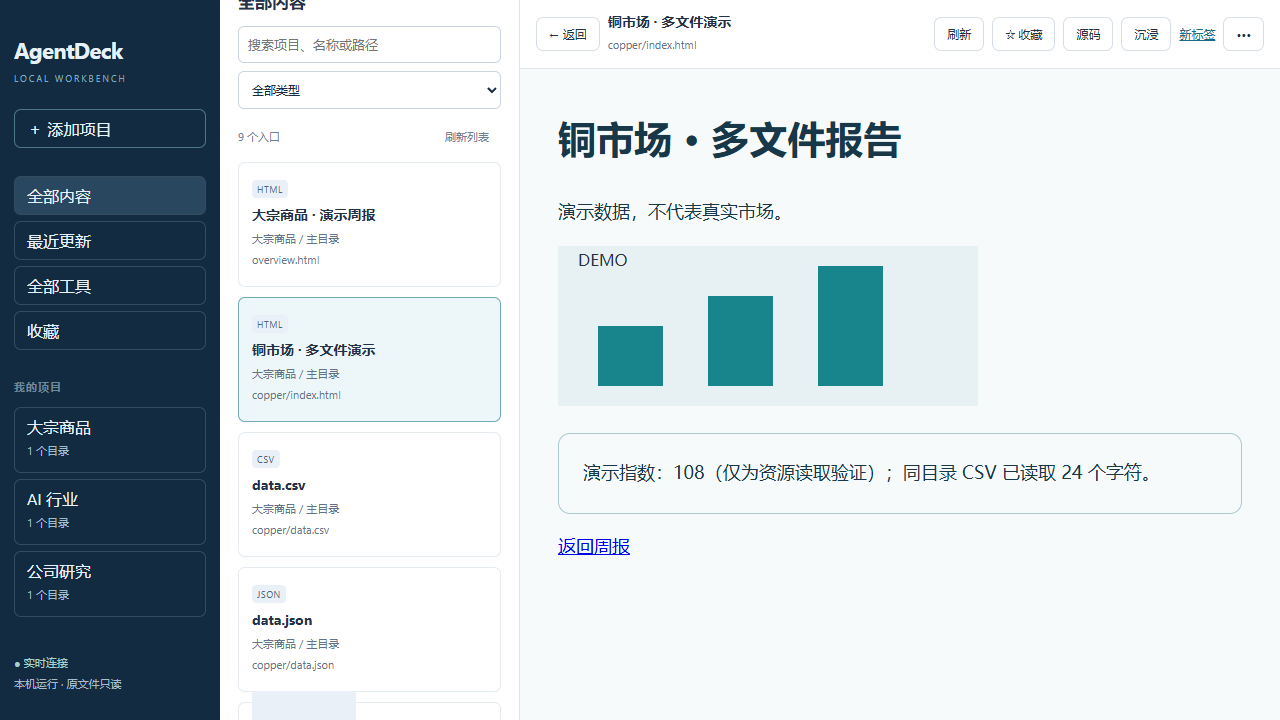
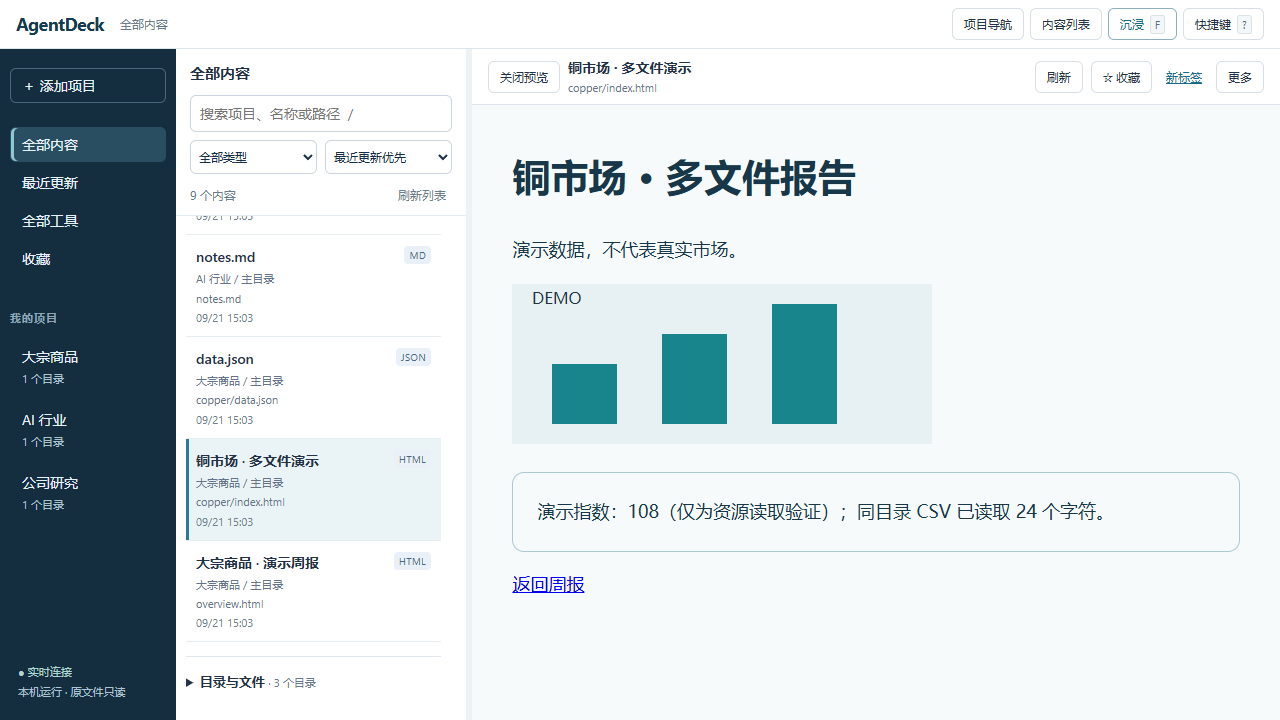
fix: 隔离内容类型标签与正文样式

diff --git a/app/web/style.css b/app/web/style.css
@@ -24,7 +24,7 @@ aside nav{margin:18px 0 10px}.nav-label{font-size:11px;letter-spacing:1px;font-w
 .catalog-scroll{min-height:0;overflow:auto;overscroll-behavior:contain;scrollbar-gutter:stable;flex:1;padding:0 10px 14px}
 .entry{display:block;text-align:left;width:100%;padding:11px 10px;border:0;border-bottom:1px solid #e6edf1;border-radius:0;background:transparent}
 .entry:hover{background:#f3f7f9}.entry.selected{background:#eaf3f5;box-shadow:inset 3px 0 #297c92}.entry-heading{display:flex;gap:8px;align-items:flex-start;justify-content:space-between}.entry strong{font-size:14px;font-weight:600;line-height:1.5;overflow-wrap:anywhere;min-width:0}.entry small{font-size:11px;line-height:1.4;margin:4px 0}.entry-path{white-space:nowrap;overflow:hidden;text-overflow:ellipsis}.entry-meta{display:flex;align-items:center;justify-content:space-between;gap:6px;color:#6e7f8d;font-size:11px}.entry-status{color:#97541d}
-.badge{flex:none;font-size:10px;letter-spacing:.3px;padding:2px 5px;background:#eaf0f8;border-radius:4px;color:#426883}.badge.tool{background:#e5f4ed;color:#307960}
+.badge{flex:none;font-size:10px;letter-spacing:.3px;padding:2px 5px;background:#eaf0f8;border-radius:4px;color:#426883}.badge.kind-tool{background:#e5f4ed;color:#307960}
 .catalog-empty{padding:24px 12px;color:#627789;font-size:13px}.catalog-empty strong{color:#324b60}.catalog-empty p{margin:8px 0 14px}
 .directory-section{margin-top:14px;border-top:1px solid #e0e7ee;padding:8px 0}.directory-section>summary{font-weight:600}.directory-section>summary span{font-weight:400;font-size:11px}.mount-tree{margin:4px 4px 4px 8px}.mount-tree button,.output-note{font-size:12px}
 summary{cursor:pointer;font-size:13px;padding:8px 0;overflow-wrap:anywhere}.tree{padding:8px 0 8px 12px}.tree button{display:block;border:0;text-align:left;font-size:12px;overflow-wrap:anywhere}.offline{color:#ab493d}.output-note{margin-top:14px}

diff --git a/tests/e2e/workbench.spec.ts b/tests/e2e/workbench.spec.ts
@@ -19,8 +19,11 @@ test('production: add real projects and run native and built tools',async({page}
   await page.locator('.entry').filter({hasText:'单位换算器'}).click();frame=page.frameLocator('iframe');await frame.locator('#tonnes').fill('3.4');await frame.getByRole('button',{name:'换算',exact:true}).click();await expect(frame.locator('#result')).toHaveText('3400 千克');
   await page.locator('.entry').filter({hasText:'铜市场 · 多文件演示'}).click();frame=page.frameLocator('iframe');await expect(frame.locator('#data')).toContainText('108');await expect(frame.locator('#data')).toContainText('CSV 已读取');await expect(frame.locator('img')).toBeVisible();
   expect((await json(page,'/api/projects')).data.projects).toHaveLength(3);
+  const markdownBadge=page.locator('.entry').filter({hasText:'notes.md'}).locator('.badge');
+  expect(await markdownBadge.evaluate(el=>el.getBoundingClientRect().height)).toBeLessThan(28);
   await page.screenshot({path:'test-results/workbench.png',fullPage:true});
   await page.setViewportSize({width:1080,height:1920});
+  expect(await markdownBadge.evaluate(el=>el.getBoundingClientRect().height)).toBeLessThan(28);
   await expect(frame.locator('#data')).toContainText('CSV 已读取');
   await page.screenshot({path:'test-results/workbench-portrait.png',fullPage:true});
   await page.getByRole('button',{name:'沉浸',exact:true}).click();

diff --git a/app/web/App.tsx b/app/web/App.tsx
@@ -171,7 +171,7 @@ export function App() {
           if (index < 0) return;
           e.preventDefault(); rows[Math.max(0, Math.min(rows.length - 1, index + (e.key === 'ArrowDown' ? 1 : -1)))]?.focus();
         }}>{visible.map(e => <button className={`entry ${selected === e.id ? 'selected' : ''}`} aria-current={selected === e.id ? 'true' : undefined} key={e.id} onClick={() => openEntry(e.id)} title={`${e.title}\n${e.relativePath || e.toolRoot || '根目录'}`}>
-          <span className="entry-heading"><strong>{e.title}</strong><span className={`badge ${e.kind}`}>{e.kind === 'tool' ? '工具' : e.format.toUpperCase() || 'HTML'}</span></span>
+          <span className="entry-heading"><strong>{e.title}</strong><span className={`badge kind-${e.kind}`}>{e.kind === 'tool' ? '工具' : e.format.toUpperCase() || 'HTML'}</span></span>
           <small>{data.projects.find(p => p.id === e.projectId)?.name} / {data.mounts.find(m => m.id === e.mountId)?.label}{favorites.includes(e.id) ? ' ★' : ''}</small>
           <small className="entry-path">{e.relativePath || e.toolRoot || '根目录'}</small>
           <span className="entry-meta"><time dateTime={new Date(e.updatedAt).toISOString()} title={new Date(e.updatedAt).toLocaleString('zh-CN')}>{dateFormat.format(e.updatedAt)}</time>{e.status !== 'ready' && <span className="entry-status">{labels[e.status]}</span>}</span>

diff --git a/docs/ISSUES.md b/docs/ISSUES.md
@@ -91,3 +91,13 @@
 - 解决方案：共享契约增加不含默认值的独立 PATCH schema，只合并请求明确提交的字段。
 - 验证：重新定位前后工具 ID、入口覆盖、用途和显示名保持；停用/恢复、进程重新初始化和待构建状态测试通过。
 - 相关文件：app/shared/model.ts、app/server/server.ts、tests/discovery.test.ts。
+
+## AD-010 — Markdown 类型标签误用正文样式
+
+- 日期：2026-09-21
+- 状态：已解决
+- 现象：桌面界面截图中，Markdown 内容的类型标签异常放大，挤压标题并增加列表行高。
+- 原因：类型标签直接使用入口类别作为 CSS 类名，`markdown` 与阅读区的 `.markdown` 正文选择器重名，继承了正文内边距与布局规则。
+- 解决方案：类型标签使用 `kind-` 前缀隔离类别样式，正文排版规则保持独立。
+- 验证：Edge 正式模式检查横屏和竖屏中 Markdown 标签高度小于 28px，并检查实际示例报告截图；Markdown 阅读和快捷键回归通过。
+- 相关文件：app/web/App.tsx、app/web/style.css、tests/e2e/workbench.spec.ts。

diff --git a/docs/TEST-RESULTS.md b/docs/TEST-RESULTS.md
@@ -74,6 +74,7 @@
 - 验证列表宽度、折叠状态、排序记忆；沉浸临时搜索与取消恢复；方向键不切换工具，Enter 才打开；F/Esc 切换、逐层关闭弹窗、嵌套目录选择器、Tab 焦点循环及关闭后焦点恢复；单键禁用记忆；Markdown 滚动位置和独立预览退出。
 - 验证 iframe 中输入 `f/?` 不触发外层快捷键；Ctrl+K/L/J/F、Alt、Meta 和 F11 的合成事件不被工作台取消。IME 使用 isComposing/keyCode 229 合成事件验证；未声称实测所有物理输入法、浏览器扩展或操作系统热键。
 - 测试自身调整：DELETE 请求提供空 JSON 对象；滚动测试页面增高到 5000px，避免大竖屏下文档末尾的浏览器正常滚动限幅影响断言。
+- 截图检查发现并修复 AD-010：Markdown 类型标签与正文样式重名。增加标签高度断言后，工作流与快捷键 9 项回归全部通过。当前截图：[横屏](screenshots/workbench.png)、[竖屏](screenshots/workbench-portrait.png)、[竖屏沉浸](screenshots/workbench-immersive.png)。
 
 ## 未实现（延续 V1 范围）
 

diff --git a/README.md b/README.md
@@ -4,6 +4,8 @@
 
 ![正式模式界面示例](docs/screenshots/workbench.png)
 
+[竖屏界面](docs/screenshots/workbench-portrait.png) · [竖屏沉浸](docs/screenshots/workbench-immersive.png)
+
 ## 启动
 
 需要 Node.js 22.12+（本次实际使用 24.20.0）和 npm。首次安装：
